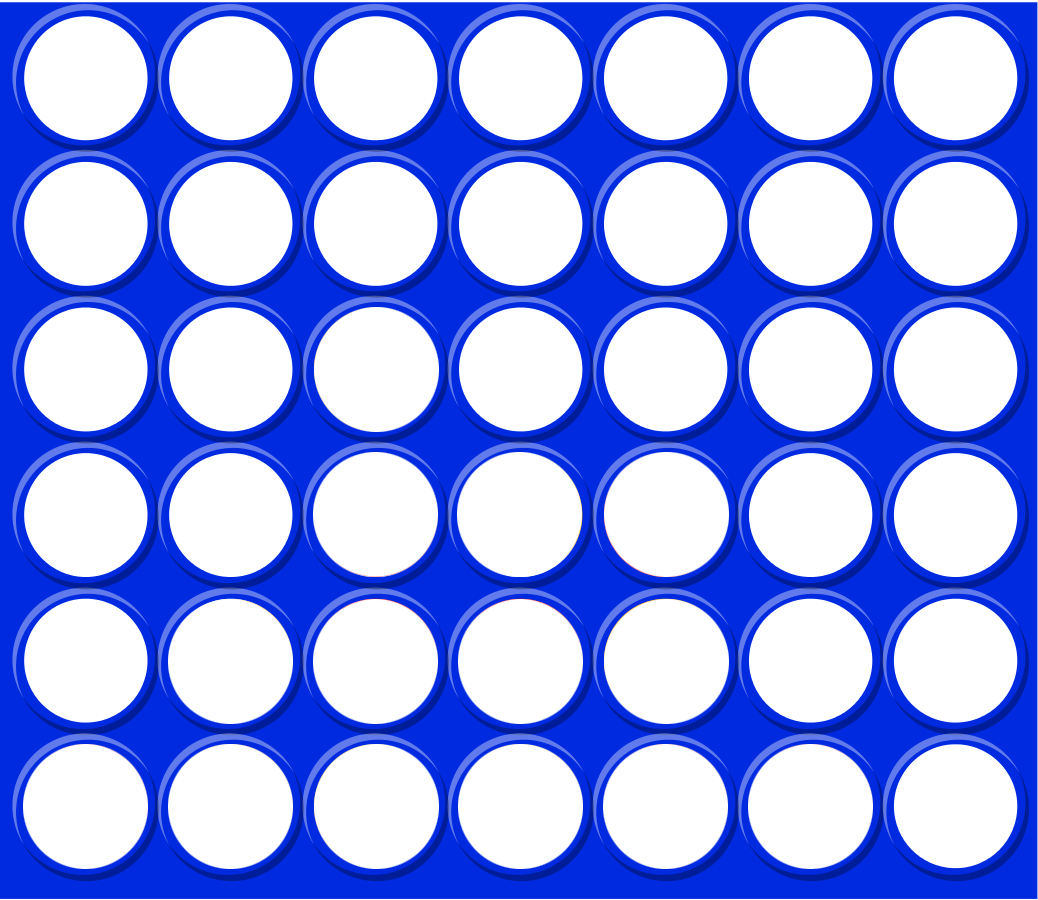
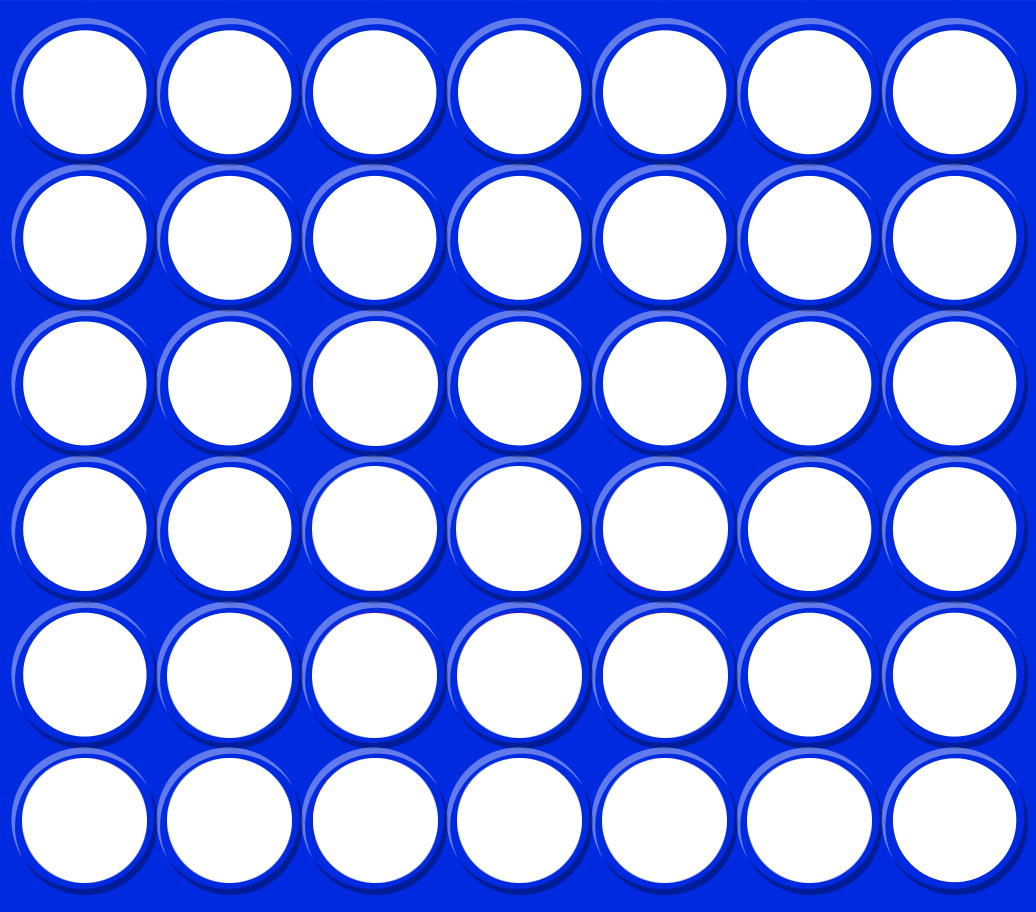
Winner main diagonal done

diff --git a/src/LogicalBoard.java b/src/LogicalBoard.java
@@ -6,7 +6,7 @@ import javafx.scene.control.TableCell;
 public class LogicalBoard implements Players {
 
     private PLAYERS[][] board;
-
+    public static int turn;
 
     public LogicalBoard() {
         initBoard();
@@ -44,11 +44,18 @@ public class LogicalBoard implements Players {
             throw new ColumnFullException();
         }
 
+        turn++;
+        PLAYERS winner = PLAYERS.NONE;
+
         int i = 5;
         for (; i >= 0 && board[i][col] != PLAYERS.NONE; i--) ;
         board[i][col] = player;
 
-        checkWin(col, i, player);
+        if (turn / 2 >= 4)
+            winner = checkWin(col, i, player);
+
+        //if(winner != PLAYERS.NONE)
+            //TODO: handle winner & end game
 
         return i;
     }
@@ -57,7 +64,8 @@ public class LogicalBoard implements Players {
     public PLAYERS checkWin(int col, int row, PLAYERS player) {
 
         checkWinCol(col, row, player);
-        System.out.println(player + " Win row?" + checkWinRow(col, row, player));
+        checkWinRow(col, row, player);
+        System.out.println("Wind main diagonal? " + player + " " + checkWinMainDiagonal(col, row, player));
 
         return player;
     }
@@ -66,7 +74,7 @@ public class LogicalBoard implements Players {
         int count = 0;
         if (row <= 2) {
             int i = 5;
-            for (; i >= row && board[i][col] == player; i--, count++) ;
+            for (; i >= row && board[i][col] == player && count < 4; i--, count++) ;
             if (count >= 4)
                 return true;
         }
@@ -75,16 +83,32 @@ public class LogicalBoard implements Players {
 
     public boolean checkWinRow(int col, int row, PLAYERS player) {
         int count = 0;
-        int checkLeft = col - 4 <= 0 ? 0 : col - 4;
-        int checkRight = 6 - 4 + col >= 6 ? 6 : 6 - 4 + col;
+        int checkRight = col + (4 - 1) >= 6 ? 6 : col + (4 - 1);
+        int checkLeft = col - (4 - 1) <= 0 ? 0 : col - (4 - 1);
 
-
-        for (int i = checkLeft; i < checkRight && board[row][i] == player; i++, count++) ;
+        for (int i = checkLeft; i < checkRight && board[row][i] == player && count < 4; i++, count++) ;
         if (count >= 4)
             return true;
 
         return false;
+    }
+
+    public boolean checkWinMainDiagonal(int col, int row, PLAYERS player) {
+
+        int count = 0;
+
+        int sCol = col, sRow = row;
+
+        for (int i = 0; i < 3 && sCol < 6 && sRow < 5 && board[sRow][sCol] == player; i++, sRow++, sCol++, count++) ;
+        sCol = col;
+        sRow = row;
+        for (int i = 0; i < 3 && sCol >= 0 && sRow >= 0 && board[sRow][sCol] == player; i++, sRow--, sCol--, count++) ;
+
+        if (count >= 4)
+            return true;
+        return false;
 
     }
+
 
 }

diff --git a/src/Game.java b/src/Game.java
@@ -14,7 +14,7 @@ public class Game extends JFrame implements Players {
     public Game() {
         board = new Board();
         setVisible(true);
-        setSize(1040, 900 + 50 + 40);
+        setSize(1036, 912 + 90);
         setResizable(false);
         setDefaultCloseOperation(WindowConstants.EXIT_ON_CLOSE);
         Toolkit tk = Toolkit.getDefaultToolkit();
@@ -25,14 +25,13 @@ public class Game extends JFrame implements Players {
         JButton buttons[] = new JButton[7];
         JLabel curPlayer = new JLabel();
         JPanel buttonPanel = new JPanel();
-        buttonPanel.setSize(this.getWidth(),150);
-      //  buttonPanel.add(curPlayer);
+        //  buttonPanel.add(curPlayer);
 
 
         for (int i = 0; i < buttons.length; i++) {
             int x = i;
             buttons[i] = new JButton("Column " + (i + 1));
-            buttons[i].setPreferredSize(new Dimension(137,50));
+            buttons[i].setPreferredSize(new Dimension(137, 50));
             buttonPanel.add(buttons[i]);
             buttons[i].addActionListener(new ActionListener() {
                 @Override
@@ -49,7 +48,6 @@ public class Game extends JFrame implements Players {
         }
         add(buttonPanel, BorderLayout.NORTH);
         add(board.getGb(), BorderLayout.CENTER);
-
 
 
     }

diff --git a/src/GraphicalBoard.java b/src/GraphicalBoard.java
@@ -11,12 +11,10 @@ public class GraphicalBoard extends JPanel {
     public GraphicalBoard() {
         board = new GraphicalChecker[6][7];
         initBoard();
-        setSize(1038, 900);
-        setLayout(new GridLayout(6,7));
-        setVisible(true);
-        //Delta for x is 145
-        //TODO: find delta for y
+        setSize(1036, 912);
+        setLayout(new GridLayout(6, 7,0,0));
 
+        setVisible(true);
     }
 
     @Override
@@ -24,14 +22,16 @@ public class GraphicalBoard extends JPanel {
         super.paintComponent(g);
         ImageIcon ii;
         ii = new ImageIcon("Images/board.png");
-        g.drawImage(ii.getImage(), 0, 0, null);
+        g.drawImage(ii.getImage(), -13, -15, null);
     }
 
-    private void initBoard()
-    {
+    private void initBoard() {
+        int width = this.getWidth() / 7;
+        int height = this.getHeight() / 6;
         for (int i = 0; i < 6; i++) {
-            for (int j = 0; j <7 ; j++) {
+            for (int j = 0; j < 7; j++) {
                 board[i][j] = new GraphicalChecker(Players.PLAYERS.NONE);
+//                board[i][j].setLocation(width/2 - 137/2, height/2 - 137/2);
                 add(board[i][j]);
             }
         }

diff --git a/src/GraphicalChecker.java b/src/GraphicalChecker.java
@@ -13,7 +13,7 @@ public class GraphicalChecker extends JLabel {
 
     public GraphicalChecker(Players.PLAYERS player) {
         this.player = player;
-        location = new Point(10, -7);
+        location = new Point(0, 0);
         setVisible(true);
     }
 
